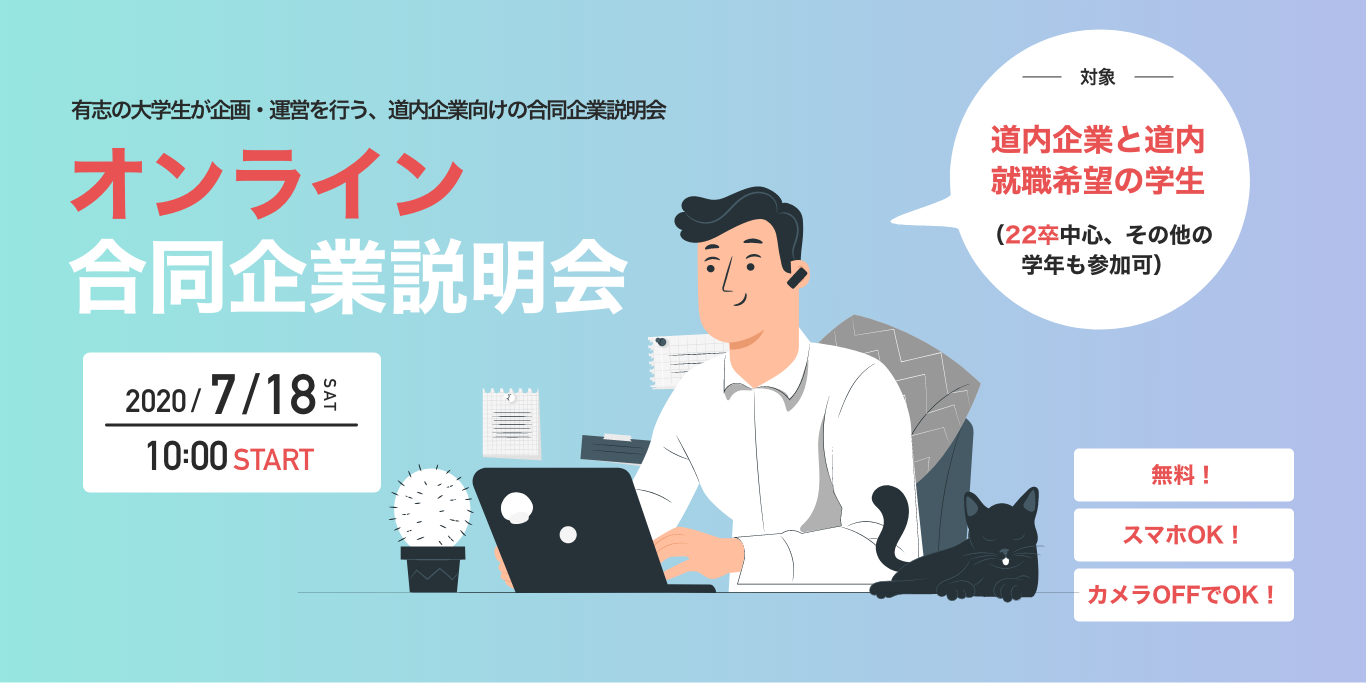
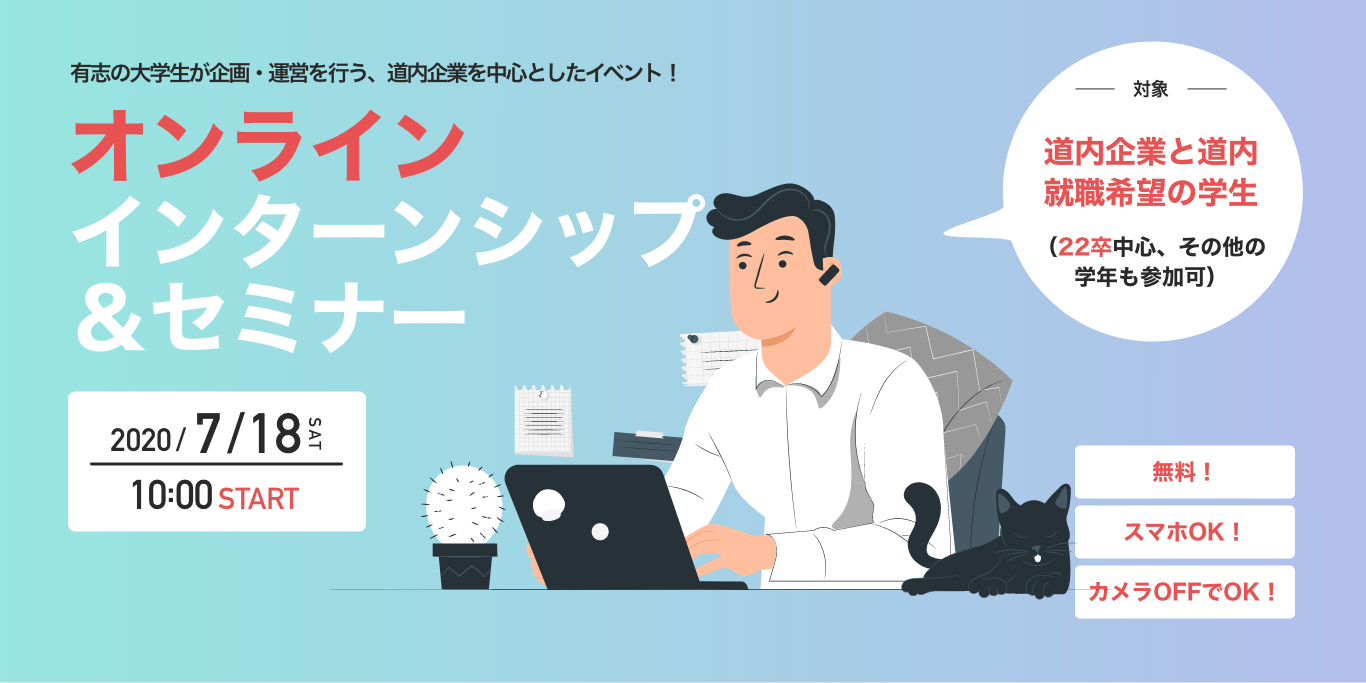
合説というフレーズを消した

Changed region(s): [[0.0307, 0.0922, 0.9531, 0.9224], [0.6457, 0.0307, 0.9531, 0.5227]]

diff --git a/build/static/js/main.e9084739.chunk.js b/build/static/js/main.e9084739.chunk.js
@@ -1,0 +1,2 @@
+(this["webpackJsonponline-session2"]=this["webpackJsonponline-session2"]||[]).push([[0],{132:function(e,t,a){e.exports=a.p+"static/media/sessionImage.4d248bf9.png"},133:function(e,t,a){e.exports=a.p+"static/media/topImage.5f56719f.png"},138:function(e,t,a){e.exports=a(290)},195:function(e,t,a){},196:function(e,t,a){},288:function(e,t,a){},290:function(e,t,a){"use strict";a.r(t);a(139);var n=a(0),c=a.n(n),r=a(127),l=a.n(r),s=(a(195),a(136)),m=(a(196),a(135)),i={space:"pnvf523rlq5x",accessToken:"oDCIh1aZ7sy7r7UeQ0_P_0joudPyh0ntNZWHMHgoTmI"},o=function(e){return c.a.createElement("div",{className:e.name},c.a.createElement("span",{className:"".concat(e.name,"-title")},e.title))},p=a(132),E=a.n(p),u=a(303),d=function(e){var t=e.data.length?e.data.map((function(e){return c.a.createElement(u.a,{item:!0,xs:12,sm:4,key:e.sys.id},c.a.createElement("div",{style:{width:"100%",height:"100%"}},c.a.createElement("a",{href:e.fields.url,style:{textDecoration:"none"}},c.a.createElement("img",{style:{width:"100%",height:"80px",objectFit:"contain"},alt:"complex",src:e.fields.image.fields.file.url}),c.a.createElement("div",{className:"companyTitle1",style:{textAlign:"center"}},e.fields.name),c.a.createElement("div",{className:"type",style:{textAlign:"center"}},"\u696d\u7a2e"),c.a.createElement("div",{className:"recruitment",style:{textAlign:"center"}},e.fields.type),c.a.createElement("div",{className:"type",style:{textAlign:"center"}},"\u52df\u96c6\u8077\u7a2e"),c.a.createElement("div",{className:"recruitment",style:{textAlign:"center"}},e.fields.recruitment),c.a.createElement("div",{className:"type",style:{textAlign:"center"}},"\u4f01\u696d\u7d39\u4ecb"),c.a.createElement("div",{className:"companyDesc1",style:{textAlign:"center"}},e.fields.description))))})):null;return(c.a.createElement("div",{style:{margin:"3em 0"}},c.a.createElement(u.a,{container:!0,spacing:3},t)))},h=a(133),f=a.n(h),g=(a(288),function(){return c.a.createElement("footer",null,c.a.createElement("small",null,"(c)2020 ",c.a.createElement("a",{href:"https://13labo.com/"},"13LABO.")," created by ",c.a.createElement("a",{href:"https://twitter.com/tanakarn98"},"tanaka")))}),y=function(e){return c.a.createElement(c.a.Fragment,null,c.a.createElement("img",{src:f.a,className:"headImage2",alt:"headerImage",onMouseDownCapture:function(){return!1},onSelectCapture:function(){return!1}}),c.a.createElement("p",{style:{textAlign:"center"}},"\u53c2\u52a0\u306f\u3053\u3061\u3089\u304b\u3089\uff01"),c.a.createElement("p",{className:"form3"},c.a.createElement("a",{href:"https://forms.gle/aakX88iecrNYe4ur7"},"\u53c2\u52a0\u7533\u8fbc\u30d5\u30a9\u30fc\u30e0")),c.a.createElement("div",{className:"container"},c.a.createElement(o,{title:"\u958b\u50ac\u306b\u3042\u305f\u3063\u3066",name:"peach-header3"}),c.a.createElement("p",{className:"contents"},"\u7d04700\u540d\u306823\u793e\u306e\u53c2\u52a0\u304c\u3042\u3063\u305f\u9053\u5185\u30aa\u30f3\u30e9\u30a4\u30f3\u5408\u540c\u4f01\u696d\u8aac\u660e\u4f1a(4/25)\u3092\u3001\u4eca\u5ea6\u306f22\u5352\u5411\u3051\u30fb\u30a4\u30f3\u30bf\u30fc\u30f3\u30b7\u30c3\u30d7\u60c5\u5831\u30e1\u30a4\u30f3\u3067\u958b\u50ac\u3057\u307e\u3059\uff01 \u9053\u5185\u5b66\u751f\u3068\u9053\u5185\u306b\u62e0\u70b9\u3092\u6301\u3064\u4f01\u696d\u306e\u30aa\u30f3\u30e9\u30a4\u30f3\u30a4\u30f3\u30bf\u30fc\u30f3\u30b7\u30c3\u30d7&\u30bb\u30df\u30ca\u30fc\u3067\u3059\u3002 \u65b0\u578b\u30b3\u30ed\u30ca\u30a6\u30a3\u30eb\u30b9\u306e\u5f71\u97ff\u3067\u5bfe\u9762\u30a4\u30d9\u30f3\u30c8\u304c\u4e2d\u6b62\u306b\u306a\u3063\u3066\u3044\u308b\u4e2d\u3067\u3001\u30aa\u30f3\u30e9\u30a4\u30f3\u3067\u5c31\u6d3b\u3092\u59cb\u3081\u3066\u307f\u307e\u305b\u3093\u304b\uff1f"),c.a.createElement(o,{title:"\u958b\u50ac\u4e88\u5b9a\u65e5",name:"peach-header3"}),c.a.createElement("p",{className:"contents"},"7\u670818\u65e510\u6642\uff5e"),c.a.createElement(o,{title:"\u5bfe\u8c61",name:"peach-header3"}),c.a.createElement("p",{className:"contents"},"\u9053\u5185\u4f01\u696d\u3068\u9053\u5185\u5c31\u8077\u5e0c\u671b\u306e\u5b66\u751f\uff0822\u5352\u4e2d\u5fc3\u3001\u305d\u306e\u4ed6\u306e\u5b66\u5e74\u3082\u53c2\u52a0\u53ef\uff09"),c.a.createElement("p",{className:"form3"},c.a.createElement("a",{href:"https://forms.gle/aakX88iecrNYe4ur7"},"\u53c2\u52a0\u7533\u8fbc\u30d5\u30a9\u30fc\u30e0")),c.a.createElement(o,{title:"\u30aa\u30f3\u30e9\u30a4\u30f3\u5408\u8aac\u306e\u30a4\u30e1\u30fc\u30b8",name:"peach-header3"}),c.a.createElement("img",{src:E.a,className:"contents sessionImage",alt:"sessionImage"}),c.a.createElement(o,{title:"\u53c2\u52a0\u65b9\u6cd5\u30fb\u7528\u610f\u3059\u308b\u3082\u306e",name:"peach-header3"}),c.a.createElement("p",{className:"form3"},c.a.createElement("a",{href:"https://forms.gle/aakX88iecrNYe4ur7"},"\u53c2\u52a0\u7533\u8fbc\u30d5\u30a9\u30fc\u30e0")),c.a.createElement("p",{className:"contents"},"\u30fb\u4e0a\u306e\u30dc\u30bf\u30f3\u3088\u308a\u3001\u53c2\u52a0\u7533\u8fbc\u307f\u3092\u304a\u9858\u3044\u3044\u305f\u3057\u307e\u3059\u3002",c.a.createElement("br",null),"\u30fb\u5f53\u65e5\u4f7f\u7528\u3059\u308b\u30b9\u30de\u30db\u30fbPC\u306b\u3001\u300czoom\u300d\u30a2\u30d7\u30ea\u3092\u30a4\u30f3\u30b9\u30c8\u30fc\u30eb\u3057\u3066\u304a\u3044\u3066\u304f\u3060\u3055\u3044\u3002",c.a.createElement("br",null),"\uff08iPhone\u306f",c.a.createElement("a",{href:"https://apps.apple.com/us/app/id546505307"},"\u30b3\u30c1\u30e9")," ","\u3001Android\u306f",c.a.createElement("a",{href:"https://play.google.com/store/apps/details?id=us.zoom.videomeetings"},"\u30b3\u30c1\u30e9")," ","\u3001PC\u306f",c.a.createElement("a",{href:"https://zoom.us/download#client_4meeting"},"\u30b3\u30c1\u30e9"),"\u30a4\u30f3\u30b9\u30c8\u30fc\u30eb\u6240\u8981\u6642\u95935\u5206\u7a0b\u5ea6\uff09",c.a.createElement("br",null),"\u30fb\u5f53\u65e5\u4f7f\u7528\u3059\u308bzoom\u306eURL\uff08\u767b\u9332\u30e1\u30fc\u30eb\u30a2\u30c9\u30ec\u30b9\u306b\u524d\u65e5\u307e\u3067\u306b\u304a\u9001\u308a\u3044\u305f\u3057\u307e\u3059\uff09",c.a.createElement("br",null),"\u30fb\u3010\u4efb\u610f\u3011\u4f01\u696d\u306e\u4e8b\u524d\u914d\u5e03\u8cc7\u6599\u3092\u8aad\u3093\u3067\u304d\u3066\u304f\u3060\u3055\u3044(\u4e00\u90e8\u306e\u4f01\u696d\u306e\u307f)\u3002\u4e8b\u524d\u914d\u5e03\u8cc7\u6599\u306f\u4ee5\u4e0b\u306e\u30dc\u30bf\u30f3\u3067Google\u30c9\u30e9\u30a4\u30d6\u304b\u3089\u30c0\u30a6\u30f3\u30ed\u30fc\u30c9\u3059\u308b\u3053\u3068\u304c\u3067\u304d\u307e\u3059\u3002"),c.a.createElement("p",{className:"pre0529 contents"},c.a.createElement("a",{href:"https://bit.ly/2ZcECgY"},"\u4e8b\u524d\u914d\u5e03\u8cc7\u6599")),c.a.createElement(o,{title:"\u5f53\u65e5\u306e\u30b9\u30b1\u30b8\u30e5\u30fc\u30eb",name:"peach-header3"}),c.a.createElement("p",{className:"contents"},"\u8abf\u6574\u4e2d\u3067\u3059\u3002"),c.a.createElement(o,{title:"\u51fa\u5c55\u4e88\u5b9a\u4f01\u696d(\u968f\u6642\u8ffd\u52a0)",name:"peach-header3"}),c.a.createElement(d,{data:e.data}),c.a.createElement(o,{title:"\u305d\u306e\u4ed6\u304a\u554f\u3044\u5408\u308f\u305b",name:"peach-header3"}),c.a.createElement("p",{className:"contents"},"13LABO\u30db\u30fc\u30e0\u30da\u30fc\u30b8\u3088\u308a\u304a\u554f\u3044\u5408\u308f\u305b\u304f\u3060\u3055\u3044\u3002",c.a.createElement("a",{href:"https://13labo.com"},"\u304a\u554f\u3044\u5408\u308f\u305b\u30d5\u30a9\u30fc\u30e0"))),c.a.createElement(g,null))},N=a(134),v=a(3),x=function(){var e=m.a(i),t=Object(n.useState)([]),a=Object(s.a)(t,2),r=a[0],l=a[1];return Object(n.useEffect)((function(){e.getEntries({order:"-sys.createdAt","sys.contentType.sys.id":"companies0718"}).then((function(e){return l(e.items)}))}),[]),c.a.createElement(N.a,null,c.a.createElement(v.c,null,c.a.createElement(v.a,{exact:!0,path:"/",render:function(){return c.a.createElement(y,{data:r})}})))};Boolean("localhost"===window.location.hostname||"[::1]"===window.location.hostname||window.location.hostname.match(/^127(?:\.(?:25[0-5]|2[0-4][0-9]|[01]?[0-9][0-9]?)){3}$/));l.a.render(c.a.createElement(x,null),document.getElementById("root")),"serviceWorker"in navigator&&navigator.serviceWorker.ready.then((function(e){e.unregister()})).catch((function(e){console.error(e.message)}))},75:function(e,t){}},[[138,1,2]]]);
+//# sourceMappingURL=main.e9084739.chunk.js.map

diff --git a/build/index.html b/build/index.html
@@ -1,1 +1,1 @@
-<!doctype html><html lang="en"><head prefix="og: http://ogp.me/ns# fb: http://ogp.me/ns/fb# website: http://ogp.me/ns/website#"><title>【7.18】オンライン合同企業説明会2020|ジョブダス北海道×13LABO</title><meta name="description" content="7月18日にオンラインで合同企業説明会を行います。大手企業など北海道に拠点を持つ企業が参加予定！"/><meta charset="utf-8"/><link rel="icon" href="/favicon.ico"/><meta name="viewport" content="width=device-width,initial-scale=1"/><meta name="theme-color" content="#000000"/><link rel="apple-touch-icon" href="https://online-session-5732d.web.app/static/media/shareImage.0116fba1.png"/><meta property="og:title" content="【7.18】オンライン合同企業説明会2020|ジョブダス北海道×13LABO"/><meta property="og:description" content="7月18日にオンラインで合同企業説明会を行います。大手企業など北海道に拠点を持つ企業が参加予定！"/><meta property="og:type" content="website"/><meta property="og:url" content="https://online-session-0718.web.app/"/><meta property="og:image" content="https://online-session0718.web.app/static/media/shareImage.aae3f11c.png"/><meta property="og:site_name" content="【7.18】オンライン合同企業説明会2020|ジョブダス北海道×13LABO"/><meta name="twitter:card" content="summary_large_image"/><meta name="twitter:description" content="6月14日にオンラインで合同企業説明会を行います。大手企業など北海道に拠点を持つ企業が参加予定！"/><meta name="twitter:title" content="【7.18】オンライン合同企業説明会2020|ジョブダス北海道×13LABO"/><meta name="twitter:image" content="https://online-session0718.web.app/static/media/shareImage.aae3f11c.png"/><link href="/static/css/main.c9a37923.chunk.css" rel="stylesheet"></head><body><noscript>You need to enable JavaScript to run this app.</noscript><div id="root"></div><script>!function(e){function r(r){for(var n,i,l=r[0],f=r[1],a=r[2],c=0,s=[];c<l.length;c++)i=l[c],Object.prototype.hasOwnProperty.call(o,i)&&o[i]&&s.push(o[i][0]),o[i]=0;for(n in f)Object.prototype.hasOwnProperty.call(f,n)&&(e[n]=f[n]);for(p&&p(r);s.length;)s.shift()();return u.push.apply(u,a||[]),t()}function t(){for(var e,r=0;r<u.length;r++){for(var t=u[r],n=!0,l=1;l<t.length;l++){var f=t[l];0!==o[f]&&(n=!1)}n&&(u.splice(r--,1),e=i(i.s=t[0]))}return e}var n={},o={1:0},u=[];function i(r){if(n[r])return n[r].exports;var t=n[r]={i:r,l:!1,exports:{}};return e[r].call(t.exports,t,t.exports,i),t.l=!0,t.exports}i.m=e,i.c=n,i.d=function(e,r,t){i.o(e,r)||Object.defineProperty(e,r,{enumerable:!0,get:t})},i.r=function(e){"undefined"!=typeof Symbol&&Symbol.toStringTag&&Object.defineProperty(e,Symbol.toStringTag,{value:"Module"}),Object.defineProperty(e,"__esModule",{value:!0})},i.t=function(e,r){if(1&r&&(e=i(e)),8&r)return e;if(4&r&&"object"==typeof e&&e&&e.__esModule)return e;var t=Object.create(null);if(i.r(t),Object.defineProperty(t,"default",{enumerable:!0,value:e}),2&r&&"string"!=typeof e)for(var n in e)i.d(t,n,function(r){return e[r]}.bind(null,n));return t},i.n=function(e){var r=e&&e.__esModule?function(){return e.default}:function(){return e};return i.d(r,"a",r),r},i.o=function(e,r){return Object.prototype.hasOwnProperty.call(e,r)},i.p="/";var l=this["webpackJsonponline-session2"]=this["webpackJsonponline-session2"]||[],f=l.push.bind(l);l.push=r,l=l.slice();for(var a=0;a<l.length;a++)r(l[a]);var p=f;t()}([])</script><script src="/static/js/2.1e0513c6.chunk.js"></script><script src="/static/js/main.9947b484.chunk.js"></script></body><script>var userAgent=window.navigator.userAgent.toLowerCase();-1===userAgent.indexOf("msie")&&-1===userAgent.indexOf("trident")||(document.getElementById("root").innerHTML="<div style='margin:0 auto'><p style='text-align:center'>お使いのブラウザには対応していません<span role='img' aria-label='sad face'>&#x1f622;</span></p></div>")</script></html>
+<!doctype html><html lang="en"><head prefix="og: http://ogp.me/ns# fb: http://ogp.me/ns/fb# website: http://ogp.me/ns/website#"><title>【7.18】オンラインインターンシップ&セミナー2020|ジョブダス北海道×13LABO</title><meta name="description" content="【7.18】オンラインインターンシップ&セミナー2020|ジョブダス北海道×13LABO"/><meta charset="utf-8"/><link rel="icon" href="/favicon.ico"/><meta name="viewport" content="width=device-width,initial-scale=1"/><meta name="theme-color" content="#000000"/><link rel="apple-touch-icon" href="https://imgur.com/ZOdIItR"/><meta property="og:title" content="【7.18】オンラインインターンシップ&セミナー2020|ジョブダス北海道×13LABO"/><meta property="og:description" content="7月18日にオンラインでインターンシップ&セミナーを行います。大手企業など北海道に拠点を持つ企業が参加予定！"/><meta property="og:type" content="website"/><meta property="og:url" content="https://online-session-0718.web.app/"/><meta property="og:image" content="https://imgur.com/ZOdIItR"/><meta property="og:site_name" content="【7.18】オンラインインターンシップ&セミナー2020|ジョブダス北海道×13LABO"/><meta name="twitter:card" content="summary_large_image"/><meta name="twitter:description" content="7月18日にオンラインでインターンシップ&セミナーを行います。大手企業など北海道に拠点を持つ企業が参加予定！"/><meta name="twitter:title" content="【7.18】オンラインインターンシップ&セミナー2020|ジョブダス北海道×13LABO"/><meta name="twitter:image" content="https://imgur.com/ZOdIItR"/><link href="/static/css/main.2c93bc01.chunk.css" rel="stylesheet"></head><body><noscript>You need to enable JavaScript to run this app.</noscript><div id="root"></div><script>!function(e){function r(r){for(var n,i,l=r[0],f=r[1],a=r[2],c=0,s=[];c<l.length;c++)i=l[c],Object.prototype.hasOwnProperty.call(o,i)&&o[i]&&s.push(o[i][0]),o[i]=0;for(n in f)Object.prototype.hasOwnProperty.call(f,n)&&(e[n]=f[n]);for(p&&p(r);s.length;)s.shift()();return u.push.apply(u,a||[]),t()}function t(){for(var e,r=0;r<u.length;r++){for(var t=u[r],n=!0,l=1;l<t.length;l++){var f=t[l];0!==o[f]&&(n=!1)}n&&(u.splice(r--,1),e=i(i.s=t[0]))}return e}var n={},o={1:0},u=[];function i(r){if(n[r])return n[r].exports;var t=n[r]={i:r,l:!1,exports:{}};return e[r].call(t.exports,t,t.exports,i),t.l=!0,t.exports}i.m=e,i.c=n,i.d=function(e,r,t){i.o(e,r)||Object.defineProperty(e,r,{enumerable:!0,get:t})},i.r=function(e){"undefined"!=typeof Symbol&&Symbol.toStringTag&&Object.defineProperty(e,Symbol.toStringTag,{value:"Module"}),Object.defineProperty(e,"__esModule",{value:!0})},i.t=function(e,r){if(1&r&&(e=i(e)),8&r)return e;if(4&r&&"object"==typeof e&&e&&e.__esModule)return e;var t=Object.create(null);if(i.r(t),Object.defineProperty(t,"default",{enumerable:!0,value:e}),2&r&&"string"!=typeof e)for(var n in e)i.d(t,n,function(r){return e[r]}.bind(null,n));return t},i.n=function(e){var r=e&&e.__esModule?function(){return e.default}:function(){return e};return i.d(r,"a",r),r},i.o=function(e,r){return Object.prototype.hasOwnProperty.call(e,r)},i.p="/";var l=this["webpackJsonponline-session2"]=this["webpackJsonponline-session2"]||[],f=l.push.bind(l);l.push=r,l=l.slice();for(var a=0;a<l.length;a++)r(l[a]);var p=f;t()}([])</script><script src="/static/js/2.1e0513c6.chunk.js"></script><script src="/static/js/main.e9084739.chunk.js"></script></body><script>var userAgent=window.navigator.userAgent.toLowerCase();-1===userAgent.indexOf("msie")&&-1===userAgent.indexOf("trident")||(document.getElementById("root").innerHTML="<div style='margin:0 auto'><p style='text-align:center'>お使いのブラウザには対応していません<span role='img' aria-label='sad face'>&#x1f622;</span></p></div>")</script></html>

diff --git a/build/static/css/main.2c93bc01.chunk.css b/build/static/css/main.2c93bc01.chunk.css
@@ -1,0 +1,2 @@
+@import url(https://fonts.googleapis.com/css2?family=Noto+Sans+JP:wght@300;400;500;700&display=swap);.container{width:80%}.peach-header{margin-left:-8px}.peach-header-title{font-size:1.2em;font-weight:700}.peach-header-title:before{content:"";display:inline-block;-webkit-transform:translateY(5px);transform:translateY(5px);width:1.5em;height:1.2em;margin-right:.5em;border-radius:.6em;background:-webkit-gradient(linear,left top,right top,from(#ffafbe),to(#ffa97c));background:linear-gradient(90deg,#ffafbe,#ffa97c)}.contents{margin:0 auto}.contents a{color:#ffafbe}.form a{background:-webkit-gradient(linear,left top,right top,from(#5373f8),to(#89d7ff));background:linear-gradient(90deg,#5373f8,#89d7ff);border-radius:10px;text-align:center;display:block;width:300px;height:50px;line-height:50px;color:#fff;text-decoration:none;margin:15px auto 20px}.form::hover{opacity:.3}.centerTitle1{background-color:#ffa97c}.centerTitle1,.centerTitle2{padding-top:15px;padding-bottom:15px;border-top-left-radius:23px;border-top-right-radius:23px;border-bottom-right-radius:5px;border-bottom-left-radius:5px}.centerTitle2{background-color:#ffbfcb}.compSession1{background-color:#fff0e8;border-radius:5px}.compSession2{background-color:#ffe6eb;border-radius:5px}.companyDesc{padding-top:10px;font-size:.7em;color:#6f6f6f}.companyTitle{color:#292929;text-decoration:none}.App,.companyTitle{text-align:center}.App-logo{height:40vmin;pointer-events:none}@media (prefers-reduced-motion:no-preference){.App-logo{-webkit-animation:App-logo-spin 20s linear infinite;animation:App-logo-spin 20s linear infinite}}.App-header{background-color:#282c34;min-height:100vh;display:flex;flex-direction:column;align-items:center;justify-content:center;font-size:calc(10px + 2vmin);color:#fff}.App-link{color:#61dafb}@-webkit-keyframes App-logo-spin{0%{-webkit-transform:rotate(0deg);transform:rotate(0deg)}to{-webkit-transform:rotate(1turn);transform:rotate(1turn)}}@keyframes App-logo-spin{0%{-webkit-transform:rotate(0deg);transform:rotate(0deg)}to{-webkit-transform:rotate(1turn);transform:rotate(1turn)}}body{font-weight:700;color:#292929;margin:0;padding:0;font-family:"Noto Sans JP",sans-serif;background-color:#fff}.headImage2{width:100%;height:auto;margin:0 auto}.container{width:90%;margin:0 auto;max-width:1200px}.peach-header3{margin-left:-8px}.peach-header3-title{font-size:1.3em;font-weight:700}.peach-header3-title:before{content:"";display:inline-block;-webkit-transform:translateY(9px);transform:translateY(9px);width:1.5em;height:1.5em;margin-right:.5em;border-radius:.9em;background:-webkit-gradient(linear,left top,right top,from(#9face6),to(#74ebd5));background:linear-gradient(90deg,#9face6,#74ebd5)}.contents{color:#6f6f6f;padding-top:20px;padding-bottom:35px;margin-left:33px}.contents a{color:#5373f8;text-decoration:underline}.sessionImage{width:90%;display:block;margin:20px auto 35px}.form3 a{background:#f46262;border-radius:5px;text-align:center;display:block;width:250px;height:50px;line-height:50px;color:#fff;text-decoration:none;margin:15px auto 20px}.form3::hover{opacity:.3}.center{text-align:center}.centerTitle0614-1{background-color:#9face6}.centerTitle0614-1,.centerTitle0614-2{padding-top:15px;padding-bottom:15px;border-top-left-radius:23px;border-top-right-radius:23px;border-bottom-right-radius:5px;border-bottom-left-radius:5px;color:#fff}.centerTitle0614-2{background-color:#aef0e4}.time{background-color:#f0f0f0;padding-top:5px;padding-bottom:5px;border-top-left-radius:23px;border-bottom-left-radius:23px;border-top-right-radius:5px;border-bottom-right-radius:5px;width:10%}.break{font-size:.7em;padding:0}.arrow{background-color:#d5d2d2;border-radius:30px;padding:0}.arrow img{width:20px}.compSession0614-1{background-color:#dde3ff;border-radius:5px}.compSession0614-2{background-color:#d9f7f1;border-radius:5px}.tg{width:100%;margin:0 auto;font-size:.8em;max-width:900px}.column{background-color:#f8e553;border-radius:5px}.companyDesc1{font-size:.9em;color:#6f6f6f;padding:3px 10px}.companyTitle1{color:#292929;text-decoration:none;padding:3px 10px}.companyDesc{display:none}.companyTitle{font-size:1em}.type{background-color:#eaeaea;border-radius:50px;font-size:.9em;color:#292929;padding:3px 10px}.recruitment{font-size:.9em;color:#6f6f6f;padding:5px 10px}.univ{background-color:#eaeaea;border-radius:50px;text-align:center;padding:5px 10px;font-size:14px}.twitter{width:80%;max-width:500px;border:1px solid grey;border-radius:10px;margin:50px 0}footer{background-color:#f5f5f5;width:100%;text-align:center}footer,footer small{margin:0;padding:0}
+/*# sourceMappingURL=main.2c93bc01.chunk.css.map */

diff --git a/public/index.html b/public/index.html
@@ -3,42 +3,42 @@
   <head
     prefix="og: http://ogp.me/ns# fb: http://ogp.me/ns/fb# website: http://ogp.me/ns/website#"
   >
-  <title>【7.18】オンライン合同企業説明会2020|ジョブダス北海道×13LABO</title>
-  <meta name="description" content="7月18日にオンラインで合同企業説明会を行います。大手企業など北海道に拠点を持つ企業が参加予定！"/>
+  <title>【7.18】オンラインインターンシップ&セミナー2020|ジョブダス北海道×13LABO</title>
+  <meta name="description" content="【7.18】オンラインインターンシップ&セミナー2020|ジョブダス北海道×13LABO"/>
     <meta charset="utf-8" />
     <link rel="icon" href="%PUBLIC_URL%/favicon.ico" />
     <meta name="viewport" content="width=device-width, initial-scale=1" />
     <meta name="theme-color" content="#000000" />
     <link
       rel="apple-touch-icon"
-      href="https://online-session-5732d.web.app/static/media/shareImage.0116fba1.png"
+      href="https://imgur.com/ZOdIItR"
     />
 
-    <meta property="og:title" content="【7.18】オンライン合同企業説明会2020|ジョブダス北海道×13LABO" />
+    <meta property="og:title" content="【7.18】オンラインインターンシップ&セミナー2020|ジョブダス北海道×13LABO" />
     <meta
       property="og:description"
-      content="7月18日にオンラインで合同企業説明会を行います。大手企業など北海道に拠点を持つ企業が参加予定！"
+      content="7月18日にオンラインでインターンシップ&セミナーを行います。大手企業など北海道に拠点を持つ企業が参加予定！"
     />
     <meta property="og:type" content="website" />
     <meta property="og:url"
     content=https://online-session-0718.web.app/ />
     <meta
       property="og:image"
-      content="https://online-session0718.web.app/static/media/shareImage.aae3f11c.png"
+      content="https://imgur.com/ZOdIItR"
     />
     <meta
       property="og:site_name"
-      content="【7.18】オンライン合同企業説明会2020|ジョブダス北海道×13LABO"
+      content="【7.18】オンラインインターンシップ&セミナー2020|ジョブダス北海道×13LABO"
     />
     <meta name="twitter:card" content="summary_large_image" />
     <meta
       name="twitter:description"
-      content="6月14日にオンラインで合同企業説明会を行います。大手企業など北海道に拠点を持つ企業が参加予定！"
+      content="7月18日にオンラインでインターンシップ&セミナーを行います。大手企業など北海道に拠点を持つ企業が参加予定！"
     />
-    <meta name="twitter:title" content="【7.18】オンライン合同企業説明会2020|ジョブダス北海道×13LABO" />
+    <meta name="twitter:title" content="【7.18】オンラインインターンシップ&セミナー2020|ジョブダス北海道×13LABO" />
     <meta
       name="twitter:image"
-      content="https://online-session0718.web.app/static/media/shareImage.aae3f11c.png"
+      content="https://imgur.com/ZOdIItR"
     />
   </head>
 

diff --git a/build/precache-manifest.dbdba5f6cf13401961a901b72ae3b002.js b/build/precache-manifest.dbdba5f6cf13401961a901b72ae3b002.js
@@ -1,11 +1,11 @@
 self.__precacheManifest = (self.__precacheManifest || []).concat([
   {
-    "revision": "eff20de66eeafceec3e8c7b101029cfb",
+    "revision": "160822c6923c22d325e43cfddd61a8c5",
     "url": "/index.html"
   },
   {
-    "revision": "aaba6516776457e81b0a",
-    "url": "/static/css/main.c9a37923.chunk.css"
+    "revision": "74c9464d7de192c4da48",
+    "url": "/static/css/main.2c93bc01.chunk.css"
   },
   {
     "revision": "eb35929d105b141ae160",
@@ -16,8 +16,8 @@ self.__precacheManifest = (self.__precacheManifest || []).concat([
     "url": "/static/js/2.1e0513c6.chunk.js.LICENSE.txt"
   },
   {
-    "revision": "aaba6516776457e81b0a",
-    "url": "/static/js/main.9947b484.chunk.js"
+    "revision": "74c9464d7de192c4da48",
+    "url": "/static/js/main.e9084739.chunk.js"
   },
   {
     "revision": "842897d0848b90944a9c",
@@ -28,7 +28,7 @@ self.__precacheManifest = (self.__precacheManifest || []).concat([
     "url": "/static/media/sessionImage.4d248bf9.png"
   },
   {
-    "revision": "ca3d8c59096f9f041703a792e7e103a5",
-    "url": "/static/media/topImage.ca3d8c59.png"
+    "revision": "5f56719fb5e05000ec950a3cf6619f7c",
+    "url": "/static/media/topImage.5f56719f.png"
   }
 ]);

diff --git a/src/pages/session0718.js b/src/pages/session0718.js
@@ -31,7 +31,7 @@ const Session0614 = (props) => {
         <Header title="開催にあたって" name="peach-header3" />
         <p className="contents">
           約700名と23社の参加があった道内オンライン合同企業説明会(4/25)を、今度は22卒向け・インターンシップ情報メインで開催します！
-          道内学生と道内に拠点を持つ企業の合同企業説明会です。
+          道内学生と道内に拠点を持つ企業のオンラインインターンシップ&セミナーです。
           新型コロナウィルスの影響で対面イベントが中止になっている中で、オンラインで就活を始めてみませんか？
         </p>
 

diff --git a/build/service-worker.js b/build/service-worker.js
@@ -14,7 +14,7 @@
 importScripts("https://storage.googleapis.com/workbox-cdn/releases/4.3.1/workbox-sw.js");
 
 importScripts(
-  "/precache-manifest.318d4a7152cc0bfce0d90cf08c15803f.js"
+  "/precache-manifest.dbdba5f6cf13401961a901b72ae3b002.js"
 );
 
 self.addEventListener('message', (event) => {

diff --git a/src/App.js b/src/App.js
@@ -16,7 +16,7 @@ const App =()=>{
       })
       .then((res) => setCompanies(res.items))
       // .catch((e) => rollbar.error(`couldn't get from contentful1: ${e}`))
-  })
+  },[])
   return(
     <BrowserRouter>
       <Switch>

diff --git a/src/css/session0718.css b/src/css/session0718.css
@@ -5,6 +5,7 @@ body {
   margin: 0;
   padding: 0;
   font-family: "Noto Sans JP", sans-serif;
+  background-color:white;
 }
 
 .headImage2 {
